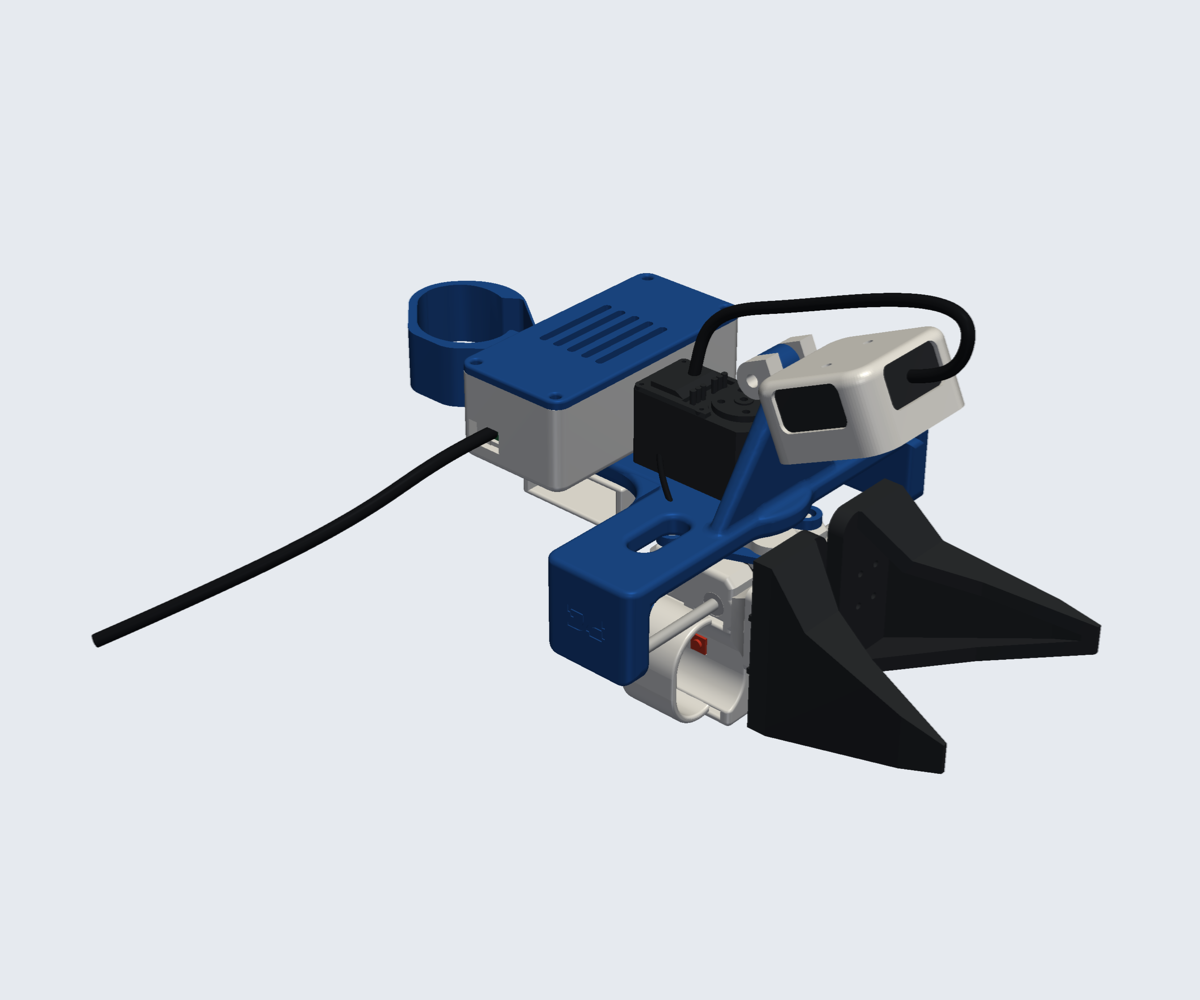
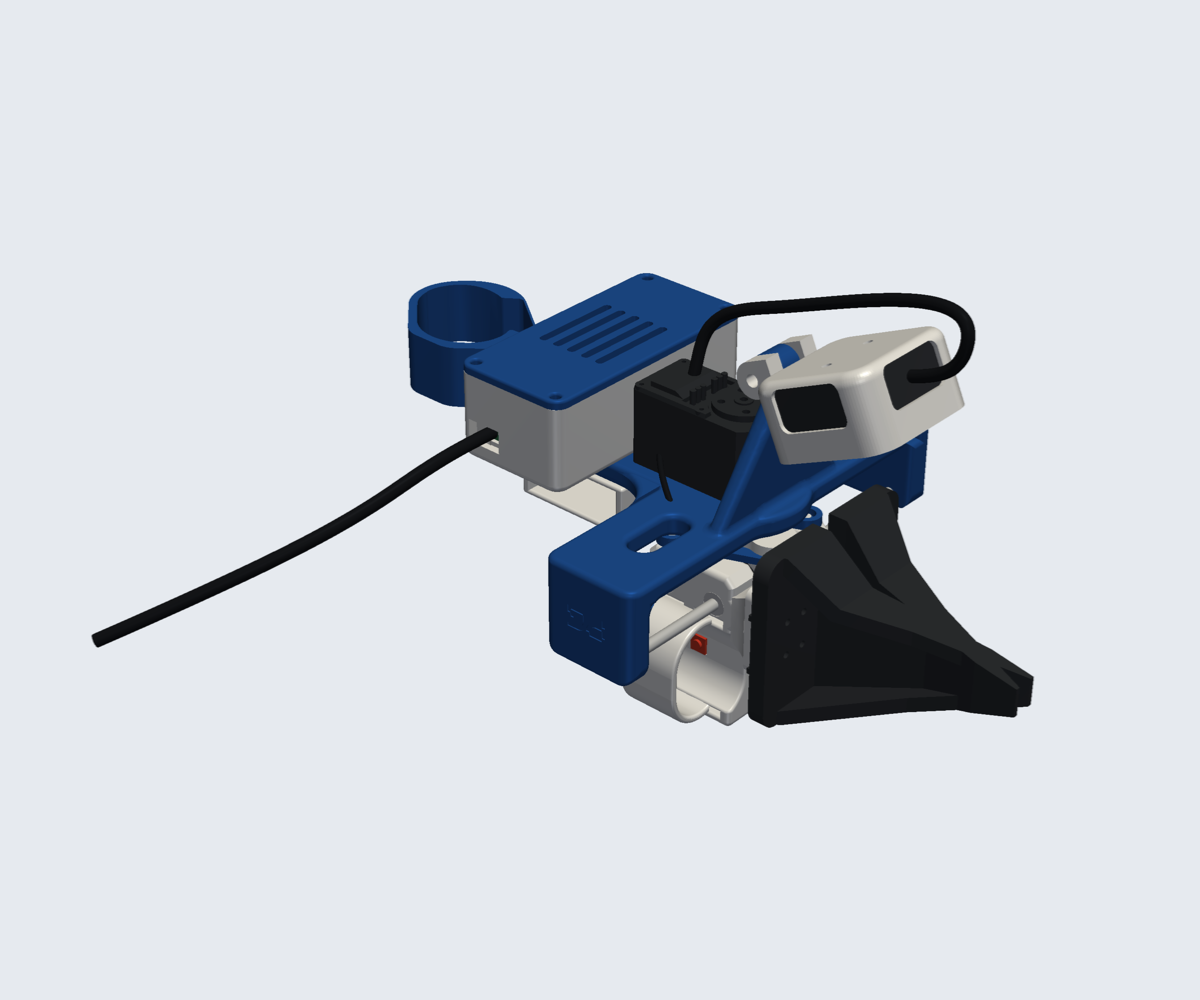
Tips: swap the ARX X5 jaws between thumb and index; Dream gripper tips point inward (index jaw mirrored)

Changed region(s): [[0.6167, 0.465, 0.925, 0.775], [0.6783, 0.527, 0.7092, 0.558]]

diff --git a/tools/assembly.py b/tools/assembly.py
@@ -132,11 +132,11 @@ def assemble(opening=0.6, camera="wrist", tipset=None, support=None, crank_z=CRA
 
     # gripper tips on the finger-link flange (link y = 0 face); orientation from tips.fit_tipset()
     ts, choice = tipset if tipset is not None else (TIP_SETS[0], None)
-    R_t, du, thumb_side = choice or best_orientation(ts)
+    Rs, dus, thumb_side = choice or best_orientation(ts)
     side_files = {"left": (ts.left, ts.centre_l), "right": (ts.right, ts.centre_r)}
     index_side = "right" if thumb_side == "left" else "left"
-    for nm, (files, centre), yc in (("thumb", side_files[thumb_side], yt), ("index", side_files[index_side], yi)):
-        Tt = link_transform(R_t, centre, ts.axis, ts.face, du)
+    for k, (nm, (files, centre), yc) in enumerate((("thumb", side_files[thumb_side], yt), ("index", side_files[index_side], yi))):
+        Tt = link_transform(Rs[k], centre, ts.axis, ts.face, dus[k])
         TL = T(RL, [-48.5, yc, 30.5])
         for k, fn in enumerate(files):
             col = "#e07020" if "Soft" in fn else DARK                     # compliant inserts in orange
@@ -153,28 +153,28 @@ def best_orientation(ts, cache={}):
     RL = [[0, -1, 0], [-1, 0, 0], [0, 0, -1]]
     files = {"left": (ts.left, ts.centre_l), "right": (ts.right, ts.centre_r)}
     best = None
-    for R_t, du, thumb_side in orientations(ts):
+    for Rs, dus, thumb_side in orientations(ts):
         index_side = "right" if thumb_side == "left" else "left"
         for op in np.arange(0.0, 0.5, 0.05):
             _, _, _, yt, yi = link_positions(op)
             placed = []
-            for side, yc in ((thumb_side, yt), (index_side, yi)):
+            for k, (side, yc) in enumerate(((thumb_side, yt), (index_side, yi))):
                 fl, centre = files[side]
                 m = _tip_mesh(ts.folder, fl[0]).copy()
-                m.apply_transform(T(RL, [-48.5, yc, 30.5]) @ link_transform(R_t, centre, ts.axis, ts.face, du))
+                m.apply_transform(T(RL, [-48.5, yc, 30.5]) @ link_transform(Rs[k], centre, ts.axis, ts.face, dus[k]))
                 placed.append(m)
             if all(m.is_volume for m in placed):
                 ov = trimesh.boolean.intersection(placed, engine="manifold").volume
             else:                                                        # exact solids for non-watertight meshes
                 sol = [place(step(HW / "STEP/gripper_tips" / ts.folder / files[sd][0][0]),
-                             T(RL, [-48.5, yc, 30.5]) @ link_transform(R_t, files[sd][1], ts.axis, ts.face, du))
-                       for sd, yc in ((thumb_side, yt), (index_side, yi))]
+                             T(RL, [-48.5, yc, 30.5]) @ link_transform(Rs[k], files[sd][1], ts.axis, ts.face, dus[k]))
+                       for k, (sd, yc) in enumerate(((thumb_side, yt), (index_side, yi)))]
                 ov = overlap(sol[0], sol[1])
             if ov < 0.5:
                 from scipy.spatial import cKDTree
                 gap = float(cKDTree(placed[1].vertices).query(placed[0].vertices)[0].min())
                 if best is None or (op, gap) < (best[0], best[1]):
-                    best = (op, gap, (R_t, du, thumb_side))
+                    best = (op, gap, (Rs, dus, thumb_side))
                 break
     cache[ts.name] = best[2]
     return best[2]

diff --git a/tools/tips.py b/tools/tips.py
@@ -29,6 +29,8 @@ class TipSet:
     robot: str = ""
     travel: str = ""        # native axis the jaws close along (defaults to u8)
     lr_sign: int = 1        # +1: the LEFT file sits at +travel from the RIGHT file in the source; 0: same place
+    flip_index: bool = False  # identical left/right parts: turn the index jaw 180° about the screw axis to mirror it
+    s_only: int = 0         # force the closing-axis sign (+1 / -1) when the automatic facing check picks the wrong way
 
 
 TIP_SETS = [
@@ -36,11 +38,12 @@ TIP_SETS = [
            ["Piper-LEFT-Gripper-Jaw.step", "Piper-LEFT-Gripper-Pad.step"], "x", 10.8,
            (10.8, 172.7, -56.9), (10.8, 238.5, -56.9), "y", "z", robot="piper"),
     TipSet("ARX X5", "ARX-X5-2023", ["ARX-X5-2023-RIGHT-Gripper.step"], ["ARX-X5-2023-LEFT-Gripper.step"], "x", -7.0,
-           (-7.0, -13.1, -64.45), (-7.0, -13.1, 14.45), "z", "y"),
+           (-7.0, -13.1, -64.45), (-7.0, -13.1, 14.45), "z", "y", lr_sign=-1),
     # the TPU inserts are modelled in a different frame from the backbones, so only the backbones are placed
     TipSet("TRLC Dream gripper", "Dream-Gripper", ["TRLC-Dream-Gripper-RIGHT-Backbone.step"],
            ["TRLC-Dream-Gripper-LEFT-Backbone.step"], "x", -9.0,
-           (-9.0, -72.2, 6.5), (-9.0, -72.2, 6.5), "y", "z", u_offsets=(4.0, -4.0), robot="trlc-dk1", lr_sign=0),
+           (-9.0, -72.2, 6.5), (-9.0, -72.2, 6.5), "y", "z", u_offsets=(4.0, -4.0), robot="trlc-dk1", lr_sign=0,
+           flip_index=True, s_only=1),
     TipSet("Trossen WidowX AI", "Trossen-WidowXAI", ["WXAI-RIGHT-Gripper-backbone.step", "WXAI-RIGHT-Gripper-sock.step"],
            ["WXAI-LEFT-Gripper-backbone.step", "WXAI-LEFT-Gripper-sock.step"], "z", -69.8,
            (-24.7, -2.1, -69.8), (24.7, -2.1, -69.8), "x", "y"),
@@ -58,14 +61,17 @@ def orientations(ts):
     tr = AX[ts.travel or ts.u8]
     w = np.cross(a, tr)
     out = []
-    for s in (1, -1):
+    for s in ((ts.s_only,) if ts.s_only else (1, -1)):
         M_tip = np.column_stack([a, tr, w])
         M_link = np.column_stack([AX["y"], s * AX["x"], np.cross(AX["y"], s * AX["x"])])
         R = M_link @ np.linalg.inv(M_tip)
         # thumb sits at -x (link) from the index; LEFT sits at lr_sign·travel from RIGHT in the source
         thumb_side = "left" if ts.lr_sign * s < 0 else "right"
+        R_index, sign_du = R, 1.0
+        if ts.flip_index:                                       # 180° about the screw axis (tip frame), then map
+            R_index, sign_du = R @ (2 * np.outer(a, a) - np.eye(3)), -1.0
         for du in ts.u_offsets:
-            out.append((R, du, thumb_side))
+            out.append(((R, R_index), (du, sign_du * du), thumb_side))
     return out
 
 
